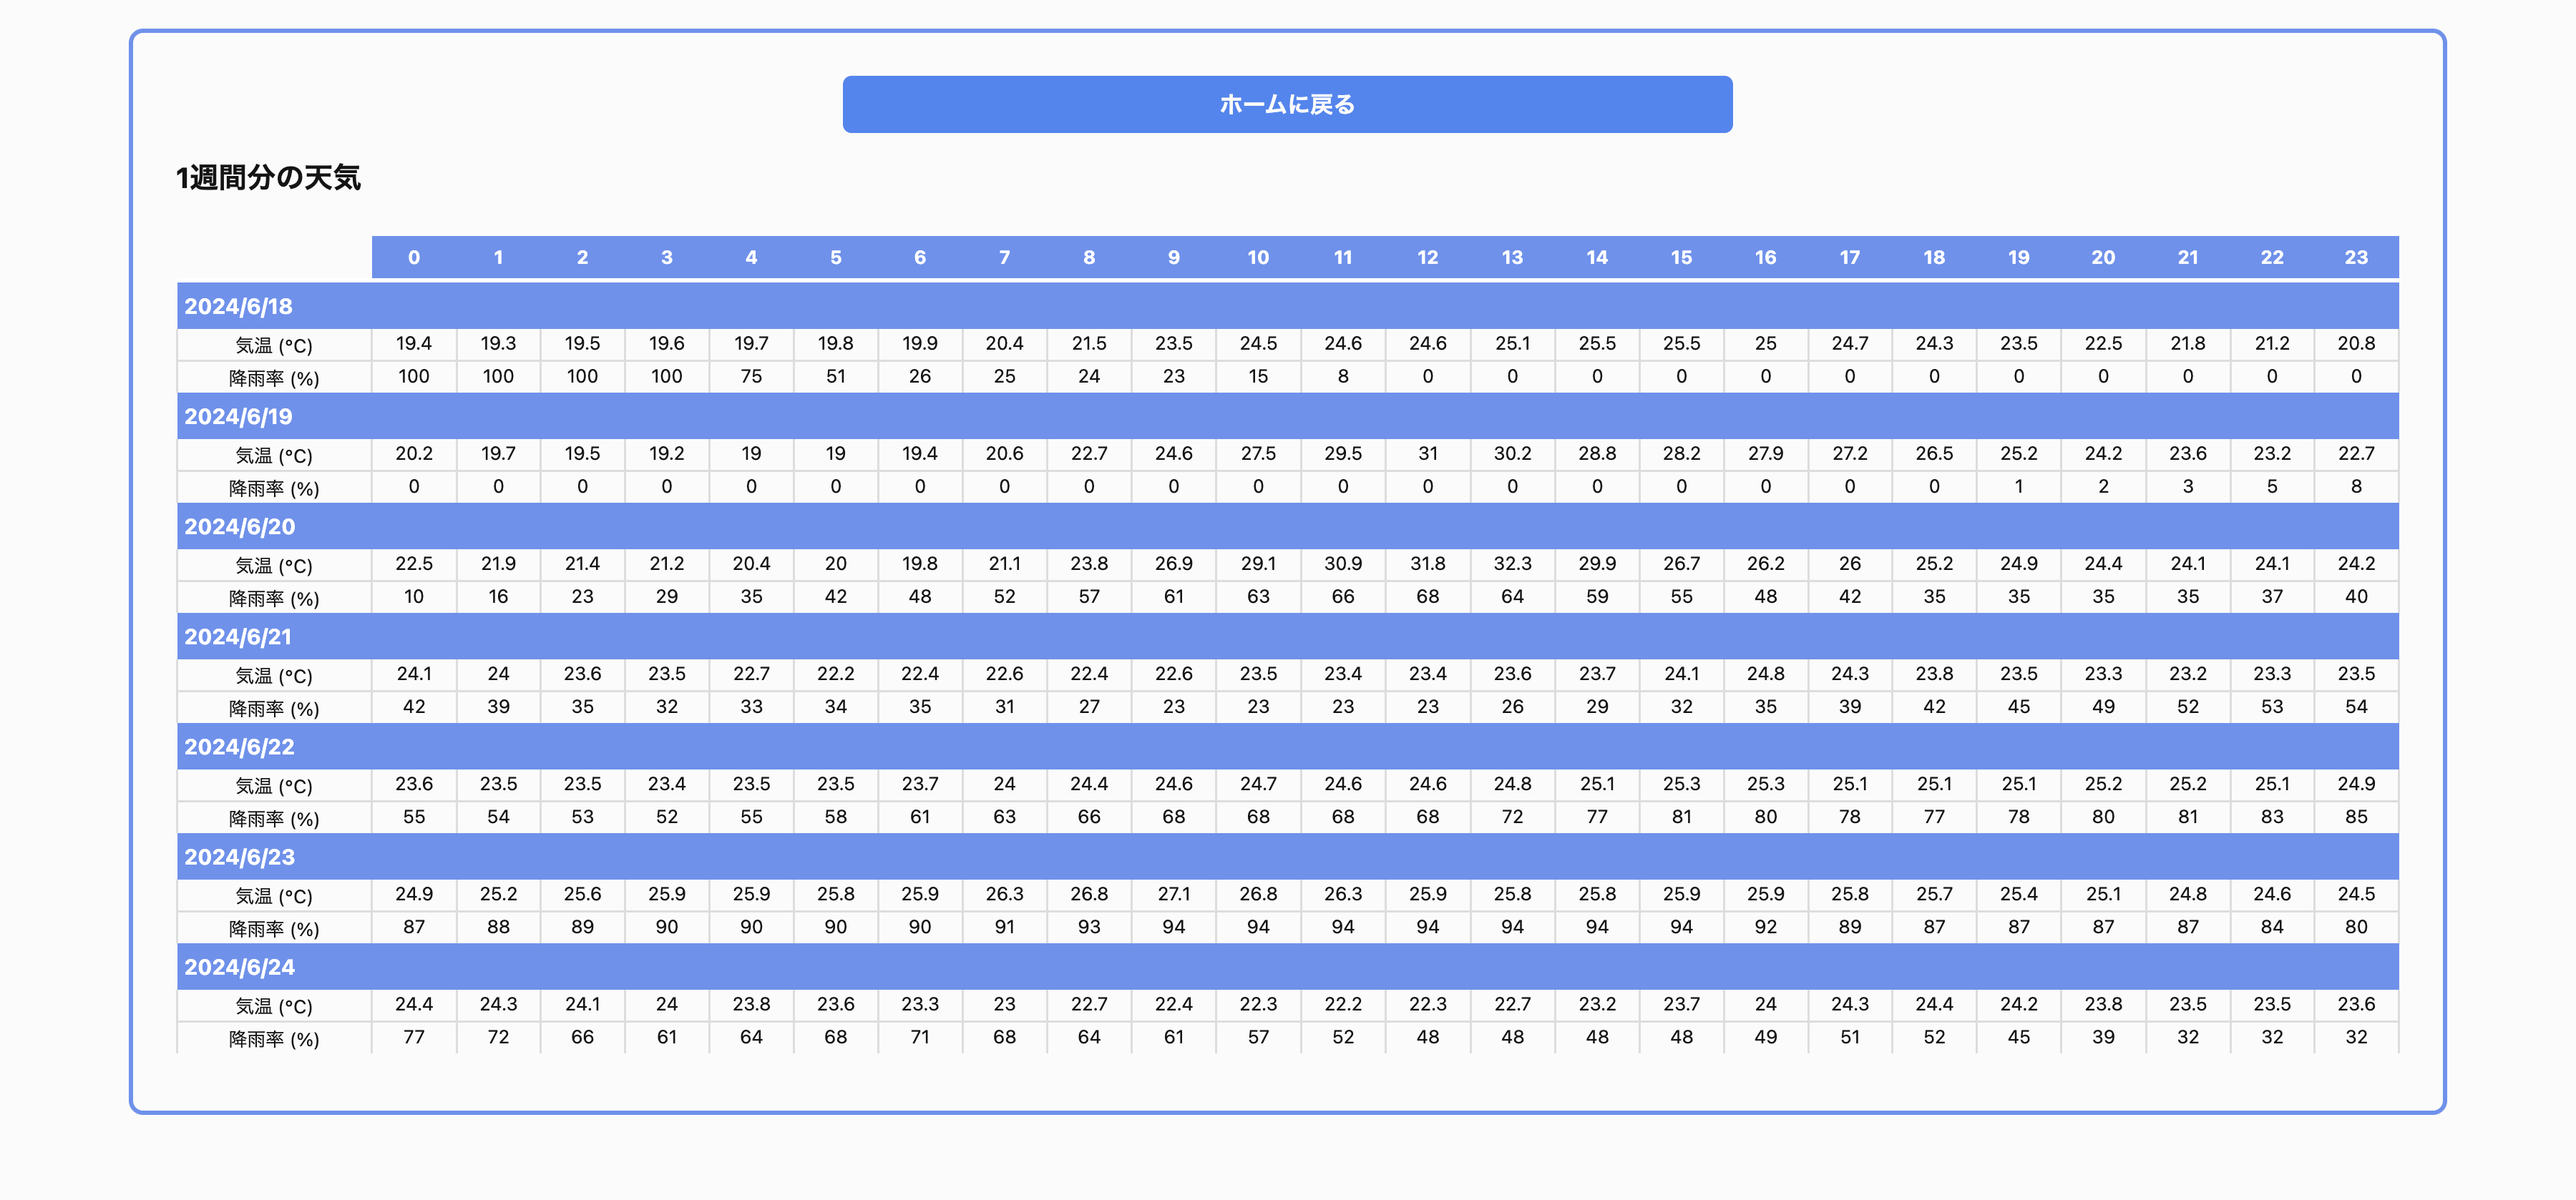
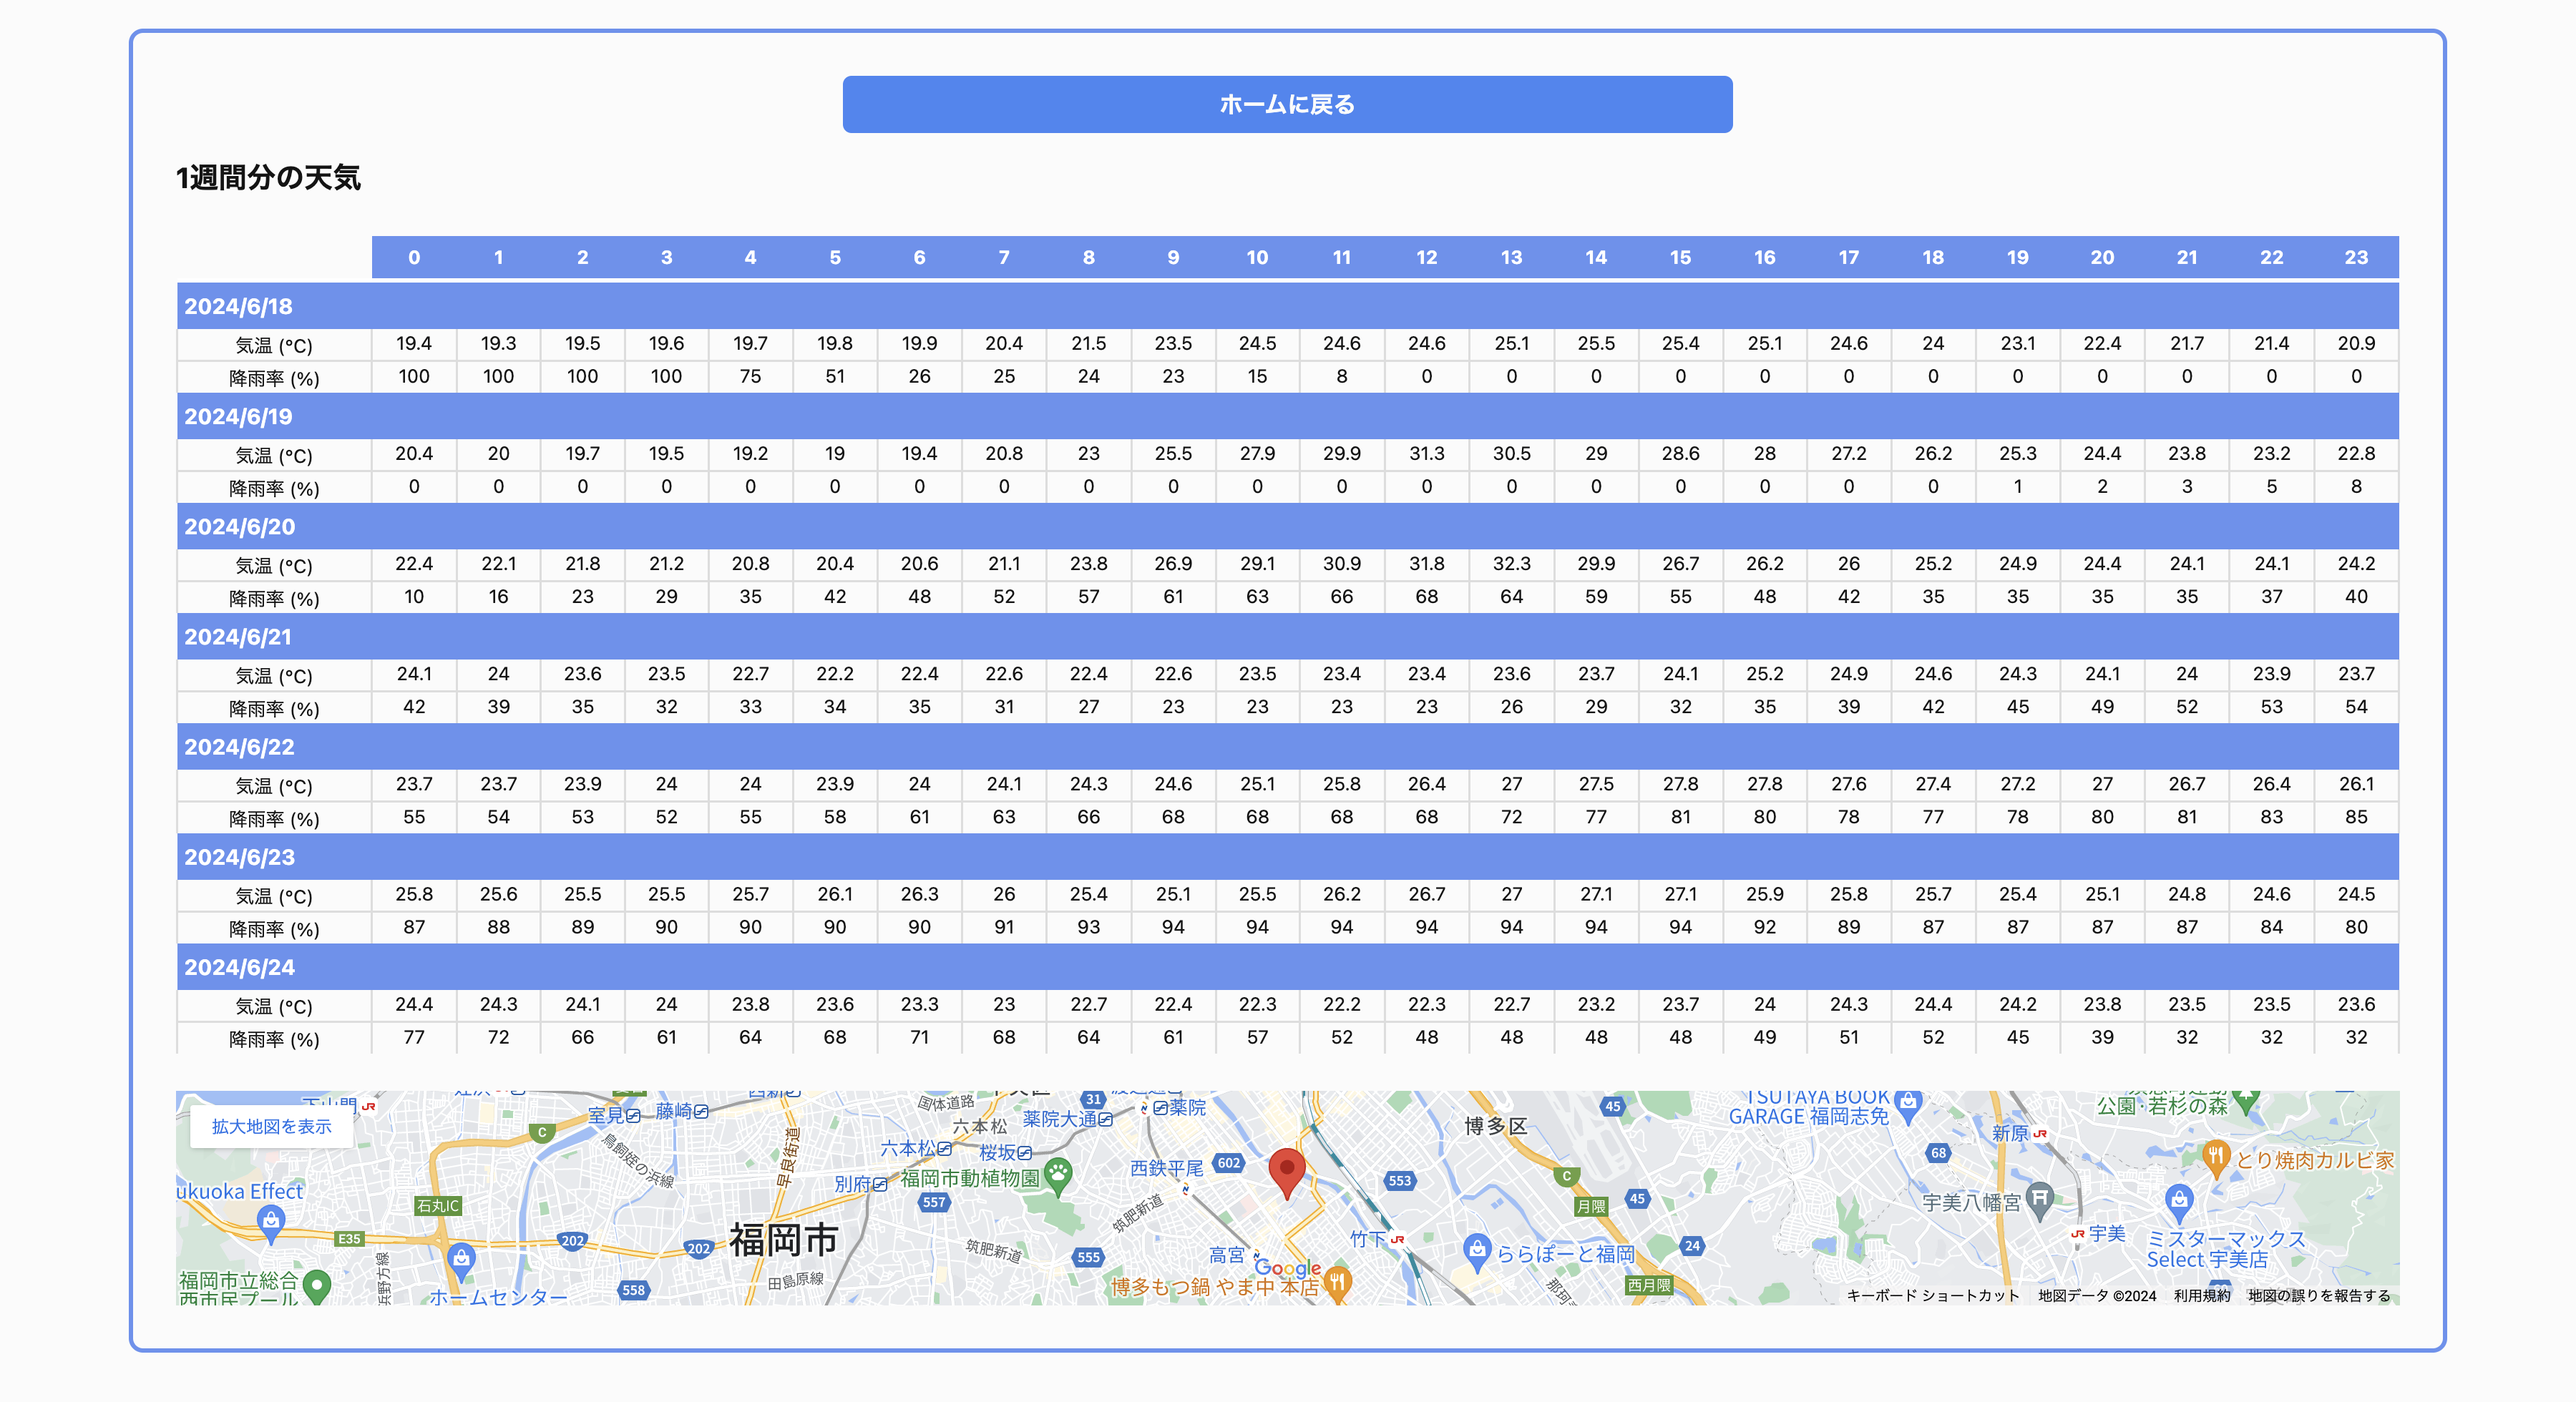
fix:add googlemap

diff --git a/pages/weather/[...place].tsx b/pages/weather/[...place].tsx
@@ -151,6 +151,9 @@ const Home = ({ weather }: any) => {
           ))}
         </tbody>
       </table>
+      <iframe
+        src={`https://maps.google.co.jp/maps?output=embed&q=${weather.latitude},${weather.longitude}&z=13`}
+      ></iframe>
     </VStack>
   )
 }

diff --git a/README.md b/README.md
@@ -11,6 +11,11 @@
 ## デプロイ先
 https://weather-app-nine-kappa-50.vercel.app/
 
+## 仕様
+- 地域を選択すると、天気がわかるサービス
+- 取得した天気情報はDBに格納して、同じ日の同一地域の天気情報はDBから取得
+- 旅行に行く人が、現地の天気を確認する目的で利用
+
 ## 機能一覧
 - 機能
   - 現在地から天気確認
